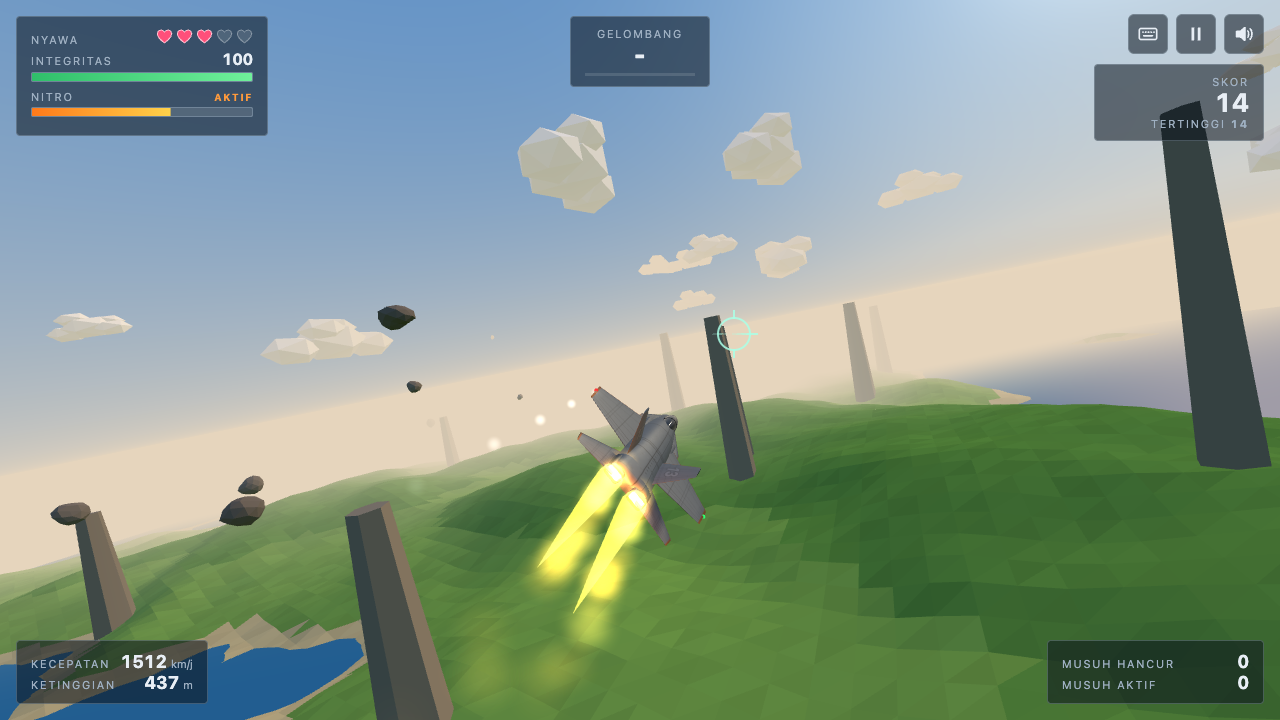
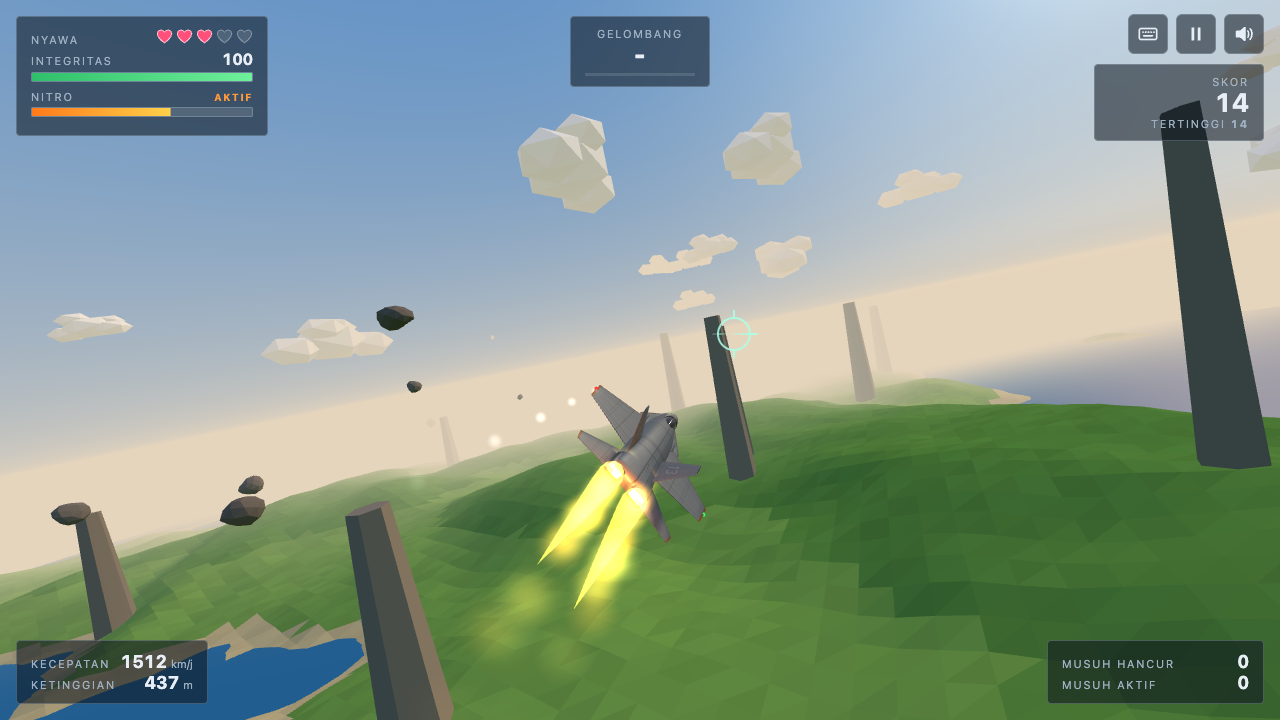
feat: A1 registri kapal berbasis data, jet lama dibungkus buildJetRaptor, rig pemain dan sistem tembak, mesin, hitbox, HP serta nitro membaca data kapal

Changed region(s): [[0.3438, 0.6111, 0.5312, 0.9778], [0.5, 0.55, 0.5312, 0.5806]]

diff --git a/index.html b/index.html
@@ -1376,7 +1376,8 @@ const JET_FUSELAGE = [
   { z: 4.50, w: 0.72, ht: 0.24, hb: 0.22, y: 0, n: 4.2, chine: 0.3 },
 ];
 
-function createPlayerJet() {
+// Jet Raptor-J (medan Bumi). Bentuk dipertahankan apa adanya; createPlayerJet adalah nama lama.
+function buildJetRaptor() {
   const root = new THREE.Group();
   root.rotation.order = 'YXZ';
   const body = new THREE.Group();
@@ -1482,8 +1483,55 @@ function createPlayerJet() {
   };
 }
 
-const PlayerModel = createPlayerJet();
-scene.add(PlayerModel.root);
+const createPlayerJet = buildJetRaptor;
+
+/* =====================================================================
+   REGISTRI KAPAL - tiap kapal adalah data: dunia yang didukung, pembuat model,
+   statistik, titik tembak (muzzles), titik api mesin (engines), radius hitbox
+   dan biaya buka dalam kredit. Semua sistem membaca angka dari sini.
+   Statistik relatif: speed, agility dan nitro adalah pengali; hp dan damage absolut.
+   ===================================================================== */
+const SHIPS = {
+  'raptor-j': {
+    id: 'raptor-j', name: 'Raptor-J', worlds: ['earth'], cost: 0,
+    desc: 'Jet tempur atmosfer bersayap trapesium. Seimbang dan stabil di ketinggian rendah.',
+    build: buildJetRaptor,
+    stats: { speed: 1.0, agility: 1.0, hp: 100, damage: 10, nitro: 1.0 },
+    muzzles: [[-1.25, -0.12, -1.2], [1.25, -0.12, -1.2]],
+    engines: [[-0.48, -0.02, 4.75], [0.48, -0.02, 4.75]],
+    radius: 2.6,
+  },
+  // Model angkasa dibuat di A3; sementara memakai jet agar sistem lain bisa diuji
+  starfighter: {
+    id: 'starfighter', name: 'Starfighter', worlds: ['space'], cost: 0,
+    desc: 'Kapal tempur angkasa satu pilot bersayap empat yang bisa berputar. Serba bisa.',
+    build: buildJetRaptor,
+    stats: { speed: 1.0, agility: 1.1, hp: 100, damage: 10, nitro: 1.0 },
+    muzzles: [[-1.25, -0.12, -1.2], [1.25, -0.12, -1.2]],
+    engines: [[-0.48, -0.02, 4.75], [0.48, -0.02, 4.75]],
+    radius: 2.6,
+  },
+};
+const DEFAULT_SHIP = { earth: 'raptor-j', space: 'starfighter' };
+const MAX_ENGINES = 4;
+// Ubah daftar angka menjadi Vector3 sekali saja
+function prepareShipDef(def) {
+  def.muzzleVecs = def.muzzles.map((m) => new THREE.Vector3(...m));
+  def.engineVecs = def.engines.map((e) => new THREE.Vector3(...e));
+}
+for (const def of Object.values(SHIPS)) prepareShipDef(def);
+
+// Rig pemain: posisi dan rotasi dari fisika; model kapal aktif menjadi anak rig
+const PlayerRig = new THREE.Group();
+PlayerRig.rotation.order = 'YXZ';
+scene.add(PlayerRig);
+const ShipModels = {};      // cache model per id kapal: dibuat sekali, dipakai ulang
+function getShipModel(id) {
+  if (!ShipModels[id]) ShipModels[id] = SHIPS[id].build(SHIPS[id].params);
+  return ShipModels[id];
+}
+const PlayerModel = getShipModel('raptor-j');
+PlayerRig.add(PlayerModel.root);
 
 // Ketinggian permukaan (daratan atau air) di titik x, z. Diganti oleh bagian DUNIA.
 // Ketinggian permukaan padat di titik x, z menurut dunia aktif (angkasa: tidak ada permukaan)
@@ -1491,7 +1539,25 @@ const groundHeightAt = (x, z) => Worlds.active.groundHeightAt(x, z);
 
 const Player = {
   model: PlayerModel,
-  pos: PlayerModel.root.position,
+  rig: PlayerRig,
+  pos: PlayerRig.position,
+  ship: SHIPS['raptor-j'],
+  radius: SHIPS['raptor-j'].radius,
+
+  // Pasang kapal: model ditukar di dalam rig, statistik dan titik tembak ikut definisi kapal
+  setShip(id) {
+    const def = SHIPS[id] || SHIPS['raptor-j'];
+    const model = getShipModel(def.id);
+    if (this.model.root.parent) this.model.root.parent.remove(this.model.root);
+    model.root.position.set(0, 0, 0);
+    model.root.rotation.set(0, 0, 0);
+    this.rig.add(model.root);
+    this.model = model;
+    this.ship = def;
+    this.radius = def.radius;
+    this.health.reset(def.stats.hp);
+    FX.hasPrev = false;
+  },
   vel: new THREE.Vector3(),
   forward: new THREE.Vector3(0, 0, -1),
   yaw: 0, pitch: 0, roll: 0,
@@ -1513,8 +1579,8 @@ const Player = {
     const C = CONFIG.player;
     this.pos.set(0, Worlds.active.safeStartAltitude(), 0);
     this.yaw = 0; this.pitch = 0; this.roll = 0;
-    this.speed = C.baseSpeed;
-    this.health.reset(C.maxHealth);
+    this.speed = C.baseSpeed * this.ship.stats.speed;
+    this.health.reset(this.ship.stats.hp);
     this.alive = true;
     this.nitro = 1;
     this.nitroLock = 0;
@@ -1527,8 +1593,8 @@ const Player = {
     this.warning = false;
     this.forward.set(0, 0, -1);
     this.vel.set(0, 0, -this.speed);
-    this.model.root.visible = true;
-    this.model.root.rotation.set(0, 0, 0);
+    this.rig.visible = true;
+    this.rig.rotation.set(0, 0, 0);
   },
 
   // Fisika arcade: pesawat selalu maju, kontrol mengatur target sudut yang di-damping
@@ -1548,10 +1614,11 @@ const Player = {
     this.pitch = damp(this.pitch, targetPitch, C.pitchResponse, dt);
     this.roll = damp(this.roll, yawIn * C.maxRoll, C.rollResponse, dt);
     // Laju belok sebanding dengan kemiringan sayap, sehingga bank dan belok selalu selaras
-    this.yaw += C.turnRate * (this.roll / C.maxRoll) * dt;
+    this.yaw += C.turnRate * this.ship.stats.agility * (this.roll / C.maxRoll) * dt;
 
     this.nitroFx = damp(this.nitroFx, this.nitroActive ? 1 : 0, 5, dt);
-    const targetSpeed = this.nitroActive ? C.nitroSpeed : C.baseSpeed;
+    const sp = this.ship.stats.speed;
+    const targetSpeed = (this.nitroActive ? C.nitroSpeed : C.baseSpeed) * sp;
     this.speed = damp(this.speed, targetSpeed, this.nitroActive ? C.accel * 1.6 : C.accel, dt);
 
     const cp = Math.cos(this.pitch);
@@ -1564,7 +1631,7 @@ const Player = {
       this.pos.y = floorY;
       if (this.pitch < 0) this.pitch = damp(this.pitch, 0, 8, dt);
     }
-    this.model.root.rotation.set(this.pitch, this.yaw, this.roll);
+    this.rig.rotation.set(this.pitch, this.yaw, this.roll);
   },
 
   // Meter nitro: terkuras saat dipakai, pulih pelan setelah jeda, terkunci sebentar bila habis
@@ -1574,7 +1641,7 @@ const Player = {
     this.nitroActive = !!want;
     if (!this.alive || this.nitroLock > 0 || this.nitro <= 0) this.nitroActive = false;
     if (this.nitroActive) {
-      this.nitro -= N.drainPerSec * dt;
+      this.nitro -= (N.drainPerSec / this.ship.stats.nitro) * dt;   // kapasitas nitro dari kapal
       this.nitroRegenWait = N.regenDelay;
       if (this.nitro <= 0) {
         this.nitro = 0;
@@ -1602,7 +1669,7 @@ const Player = {
   die() {
     this.alive = false;
     this.nitroActive = false;
-    this.model.root.visible = false;
+    this.rig.visible = false;
     this.lives = Math.max(0, this.lives - 1);
     this.respawnTimer = CONFIG.player.respawnDelay;
     CamRig.addTrauma(1);
@@ -1619,12 +1686,12 @@ const Player = {
     }
     this.pos.y = clamp(Math.max(this.pos.y, ground + 50), Worlds.active.minY, Worlds.active.maxY - 10);
     this.pitch = 0; this.roll = 0;
-    this.speed = C.baseSpeed;
-    this.health.reset(C.maxHealth);
+    this.speed = C.baseSpeed * this.ship.stats.speed;
+    this.health.reset(this.ship.stats.hp);
     this.alive = true;
     this.invuln = 0;
     this.spawnInvuln = C.respawnInvuln;
-    this.model.root.visible = true;
+    this.rig.visible = true;
     Enemies.bullets.reset();     // adil: peluru musuh yang sedang terbang dihapus
     Events.emit('playerRespawn', this.lives);
   },
@@ -1632,11 +1699,11 @@ const Player = {
   // Awal sesi dari attract mode: posisi dan arah dipertahankan agar tidak ada lompatan
   resetForSession() {
     const C = CONFIG.player;
-    this.health.reset(C.maxHealth);
+    this.health.reset(this.ship.stats.hp);
     this.alive = true;
     this.nitro = 1; this.nitroLock = 0; this.nitroRegenWait = 0; this.nitroActive = false;
     this.invuln = 0; this.spawnInvuln = 0; this.respawnTimer = 0; this.warning = false;
-    this.model.root.visible = true;
+    this.rig.visible = true;
   },
 
   addLife() { this.lives = Math.min(CONFIG.difficulty.maxLives, this.lives + 1); },
@@ -1645,7 +1712,7 @@ const Player = {
   updateInvuln(dt) {
     if (this.spawnInvuln > 0) {
       this.spawnInvuln = Math.max(0, this.spawnInvuln - dt);
-      this.model.root.visible = this.spawnInvuln <= 0 || Math.floor(this.spawnInvuln * 12) % 2 === 0;
+      this.rig.visible = this.spawnInvuln <= 0 || Math.floor(this.spawnInvuln * 12) % 2 === 0;
     }
   },
 
@@ -1673,7 +1740,7 @@ const Player = {
   },
 };
 
-Player.health = new Health(CONFIG.player.maxHealth, () => Player.die());
+Player.health = new Health(Player.ship.stats.hp, () => Player.die());
 Player.health.invulnerable = () => Player.isInvulnerable();
 Player.health.onDamage = (amount, source) => Player.onDamaged(amount, source);
 
@@ -2233,9 +2300,10 @@ const Weapons = {
     const W = CONFIG.weapons;
     if (!Player.alive || this.cooldown > 0) return;   // cooldown antar tembakan
     this.cooldown = Math.max(this.cooldown, -W.fireInterval) + W.fireInterval;
-    const gun = PlayerModel.guns[this.side];
-    this.side ^= 1;
-    _va.copy(gun).applyQuaternion(PlayerModel.root.quaternion).add(Player.pos);           // posisi laras
+    const muzzles = Player.ship.muzzleVecs;
+    const gun = muzzles[this.side % muzzles.length];
+    this.side = (this.side + 1) % muzzles.length;                                        // laras bergantian
+    _va.copy(gun).applyQuaternion(Player.rig.quaternion).add(Player.pos);                // posisi laras
     const target = this.findAssistTarget();
     if (target) {
       // Aim assist: arahkan ke posisi musuh yang diprediksi saat peluru tiba
@@ -2244,7 +2312,7 @@ const Weapons = {
     } else {
       _vb.copy(Player.pos).addScaledVector(Player.forward, W.convergeDistance).sub(_va).normalize(); // arah ke titik temu
     }
-    this.pool.spawn(_va.x, _va.y, _va.z, _vb.x, _vb.y, _vb.z, W.bulletSpeed + Player.speed, W.bulletLife, W.damage);
+    this.pool.spawn(_va.x, _va.y, _va.z, _vb.x, _vb.y, _vb.z, W.bulletSpeed + Player.speed, W.bulletLife, Player.ship.stats.damage);
     this.shotsFired++;
     Events.emit('shot', _va, _vb);
   },
@@ -2820,7 +2888,7 @@ function updateCombat() {
   }
 
   // Peluru musuh terhadap pemain dan terrain
-  const P = Player.pos, pr = CONFIG.player.radius;
+  const P = Player.pos, pr = Player.radius;
   for (let i = 0; i < eb.max; i++) {
     if (!eb.active[i]) continue;
     const i3 = i * 3;
@@ -2958,7 +3026,7 @@ Obstacles.init();
 
 // Tabrakan pemain dengan terrain dan pilar, serta peringatan medan di depan
 function updateTerrainCollision(dt) {
-  const O = CONFIG.obstacles, P = Player.pos, pr = CONFIG.player.radius;
+  const O = CONFIG.obstacles, P = Player.pos, pr = Player.radius;
   Player.invuln = Math.max(0, Player.invuln - dt);
 
   const ground = Terrain.heightAt(P.x, P.z);
@@ -3078,6 +3146,13 @@ function setActiveWorld(id, seed) {
   next.activate();
   next.reset(seed);
   Rings.reset();
+  Player.setShip(selectedShip(next.id));
+}
+// Kapal terpilih untuk medan (dari save; hangar di A2 menambah pilihan)
+function selectedShip(worldId) {
+  const sel = Save.data.ships ? Save.data.ships.selected[worldId] : null;
+  const def = SHIPS[sel];
+  return def ? (def.worlds.includes(worldId) ? sel : DEFAULT_SHIP[worldId]) : DEFAULT_SHIP[worldId];
 }
 
 /* =====================================================================
@@ -3271,7 +3346,7 @@ const Pickups = {
       it.spin.rotation.y += dt * 1.8;
       it.group.position.y = it.baseY + Math.sin(it.t * 2.2) * 0.8;
       const d2 = it.group.position.distanceToSquared(P);
-      const touching = Player.alive ? d2 < (PU.radius + CONFIG.player.radius) ** 2 : false;
+      const touching = Player.alive ? d2 < (PU.radius + Player.radius) ** 2 : false;
       if (touching) {
         it.active = false; it.group.visible = false;
         this.collected++;
@@ -3435,8 +3510,8 @@ const FX = {
   smoke: new ParticleSystem(Math.round(Q.maxParticles * 0.4), false),
   density: Q.particleDensity,
   acc: { flame: 0, smoke: 0, vapor: 0, damage: 0, enemy: 0 },
-  prevNozzle: [new THREE.Vector3(), new THREE.Vector3()],
-  curNozzle: [new THREE.Vector3(), new THREE.Vector3()],
+  prevNozzle: Array.from({ length: 4 }, () => new THREE.Vector3()),
+  curNozzle: Array.from({ length: 4 }, () => new THREE.Vector3()),
   hasPrev: false,
 
   count(n) { return Math.max(1, Math.round(n * this.density)); },
@@ -3504,9 +3579,10 @@ const FX = {
 
   // Emisi kontinu: api dan asap mesin, uap ujung sayap saat nitro, asap saat rusak, jejak musuh
   updateEmitters(dt) {
-    const m = PlayerModel, q = m.root.quaternion, P = Player.pos, f = Player.forward, nf = Player.nitroFx;
-    for (let k = 0; k < 2; k++) this.curNozzle[k].copy(m.nozzles[k]).applyQuaternion(q).add(P);
-    if (!this.hasPrev) { this.prevNozzle[0].copy(this.curNozzle[0]); this.prevNozzle[1].copy(this.curNozzle[1]); this.hasPrev = true; }
+    const m = Player.model, q = Player.rig.quaternion, P = Player.pos, f = Player.forward, nf = Player.nitroFx;
+    const eng = Player.ship.engineVecs, ne = Math.min(eng.length, MAX_ENGINES);
+    for (let k = 0; k < ne; k++) this.curNozzle[k].copy(eng[k]).applyQuaternion(q).add(P);
+    if (!this.hasPrev) { for (let k = 0; k < ne; k++) this.prevNozzle[k].copy(this.curNozzle[k]); this.hasPrev = true; }
 
     if (Player.alive) {
       // Api mesin: lebih banyak, lebih besar dan lebih panjang umur saat nitro (jejak lebih panjang).
@@ -3514,7 +3590,7 @@ const FX = {
       const flames = this.take('flame', 50 + 230 * nf, dt);
       const pv = Player.vel;
       for (let i = 0; i < flames; i++) {
-        const k = i % 2, t = frand();
+        const k = i % ne, t = frand();
         const a = this.prevNozzle[k], b = this.curNozzle[k];
         const hot = frand();
         this.fire.emit(
@@ -3525,7 +3601,7 @@ const FX = {
       }
       const puffs = this.take('smoke', 26 + 40 * nf, dt);
       for (let i = 0; i < puffs; i++) {
-        const k = i % 2, t = frand();
+        const k = i % ne, t = frand();
         const a = this.prevNozzle[k], b = this.curNozzle[k];
         const g = 0.62 + frand() * 0.12;
         this.smoke.emit(
@@ -3536,7 +3612,7 @@ const FX = {
       if (nf > 0.3) {
         const vapor = this.take('vapor', 70 * nf, dt);
         for (let i = 0; i < vapor; i++) {
-          _va.copy(m.wingtips[i % 2]).applyQuaternion(q).add(P);
+          _va.copy(m.wingtips[i % m.wingtips.length]).applyQuaternion(q).add(P);
           this.fire.emit(_va.x, _va.y, _va.z, 0, 0, 0, 0.35 + frand() * 0.2, 0.32, 0.5, 0.75, 0.82, 0.9, 0.35 * nf, 0, 0);
         }
       }
@@ -3548,8 +3624,7 @@ const FX = {
         }
       }
     }
-    this.prevNozzle[0].copy(this.curNozzle[0]);
-    this.prevNozzle[1].copy(this.curNozzle[1]);
+    for (let k = 0; k < ne; k++) this.prevNozzle[k].copy(this.curNozzle[k]);
 
     // Jejak api kecil di belakang pesawat penembak
     const trail = this.take('enemy', 22, dt);
@@ -5010,6 +5085,8 @@ window.__game = {
       highScore: HighScore.value,
       difficulty: Game.difficultyKey,
       world: Worlds.active.id,
+      ship: Player.ship.id,
+      radius: Player.radius,
       settings: { ...Save.settings },
     };
   },
